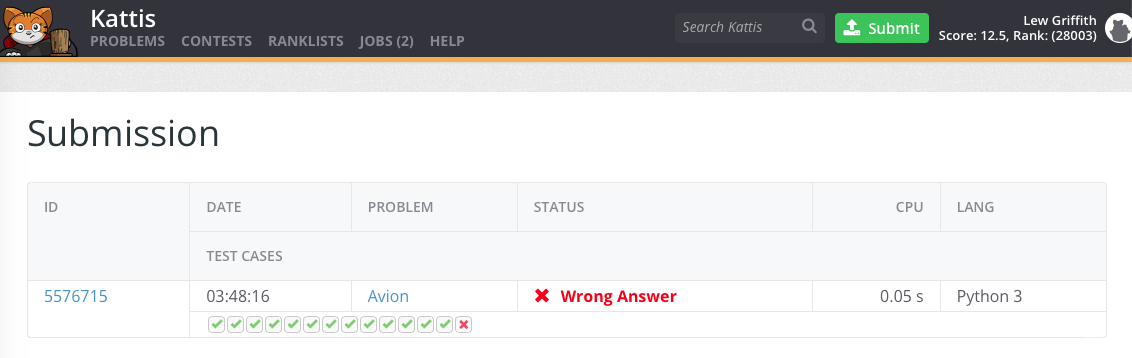
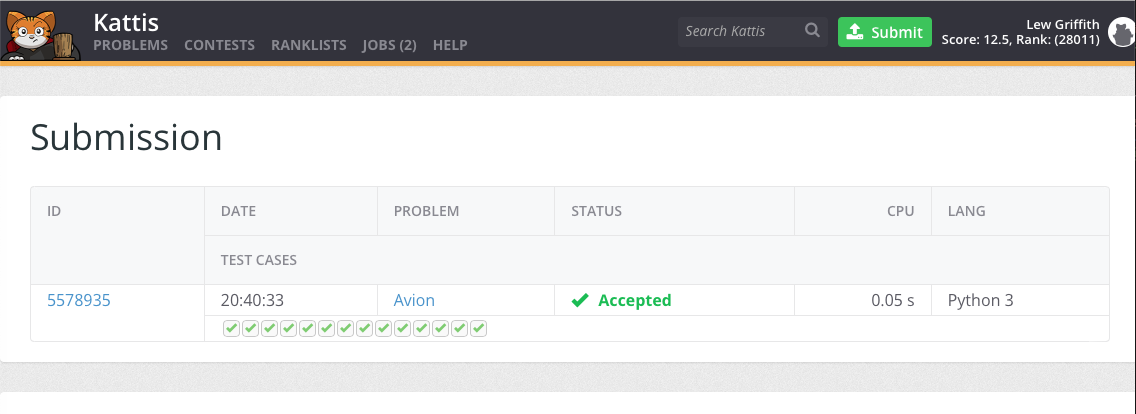
Final Submission

diff --git a/assignments/avion/avion.py b/assignments/avion/avion.py
@@ -5,12 +5,13 @@ By: Lew Griffith
 The task is to solve a kattis problem called "Avion". USKOK agents are looking for a corrupt government who plans to escape on a CIA blimp. CIA blimps have the string "FBI" somewhere in the registration codes. This program will allow the user to input 5 five registration codes (in rows) and will search for "FBI" in the string.
 """
 # Algorithm Steps #
-# 1. Get the data from the user
-# 2. Store the data in variables
-# 3. Search for "FBI" in each string
-# 4. If found, return the row number on one line separated by a space each and in increasing order. If not, return "HE GOT AWAY".
-# 5. Print the result
-# 6. Test its accuracy
+# 1. Get five rows of data from the user
+# 2. Store the data into variables
+# 3. Put data in a list
+# 4. Search for "FBI" in each element of the list
+# 5. If found, return the list indices plus 1 on one line, separated by a space, and in increasing order. If not, return "HE GOT AWAY".
+# 6. Print the result to the user
+# 7. Test its accuracy
 
 import sys
 
@@ -24,30 +25,41 @@ def getBlimps():
     return b1,b2,b3,b4,b5
 
 def findBlimp(b1,b2,b3,b4,b5):
+# Step 3
     blimp=[b1,b2,b3,b4,b5]
     counter=0
     answer=''
-    i=0
+    startSearch=0
+# Step 4
     for code in blimp:
         if "FBI" in code:
-            answer+=str(blimp.index(code,i)+1)+' '
-            i+=1
+            answer+=str(blimp.index(code,startSearch)+1)+' '
+            startSearch+=1
         else:
             counter+=1
+# Step 5
     if counter==5:
         return "HE GOT AWAY!"
     else:
+        answer=answer.rstrip()
         return answer
-# Step 6
+# Step 7
 def test():
-    assert findBlimp("FBIuej","FBIdjfk","8","ueu","FBIkdkf")=="1 2 5 "   
+    assert findBlimp("FBIuej","FBIdjfk","8","ueu","FBIkdkf")=="1 2 5"   
     assert findBlimp("mommy_dearest","Superman","Krypto","boombam","hi")=="HE GOT AWAY!"   
-    assert findBlimp("hi","FBI11","FBI!","kdfkdjf", "graduation!!!!")=="2 3 "
-    print("All test cases passed")
+    assert findBlimp("hi","FBI11","FBI!","kdfkdjf", "graduation!!!!")=="2 3"
+    print("All test cases passed!")
 
-#if len(sys.argv)==2 and sys.argv[1]=="test":
- #   test()
-#else:
-# Step 5
-test()
-print(findBlimp("FBI","FBI","8","ueu","FBI"))
+if len(sys.argv)==2 and sys.argv[1]=="test":   
+    test()
+else:
+    c1,c2,c3,c4,c5=getBlimps()
+# Step 6
+    print(findBlimp(c1,c2,c3,c4,c5))
+
+
+# To check to see if sample 1.in outputs the right answer when using the program, type cat 1.in | python3.7 avion.py | diff - 1.ans
+# The cat command prints the content of the sample file
+# By printing it into the program, the diff command compares the output to the sample output file (1.ans). If they match nothing happens, otherwise there is an error.
+# Note cat and diff are linux commands.
+# This saves typing in the sample input by hand.
